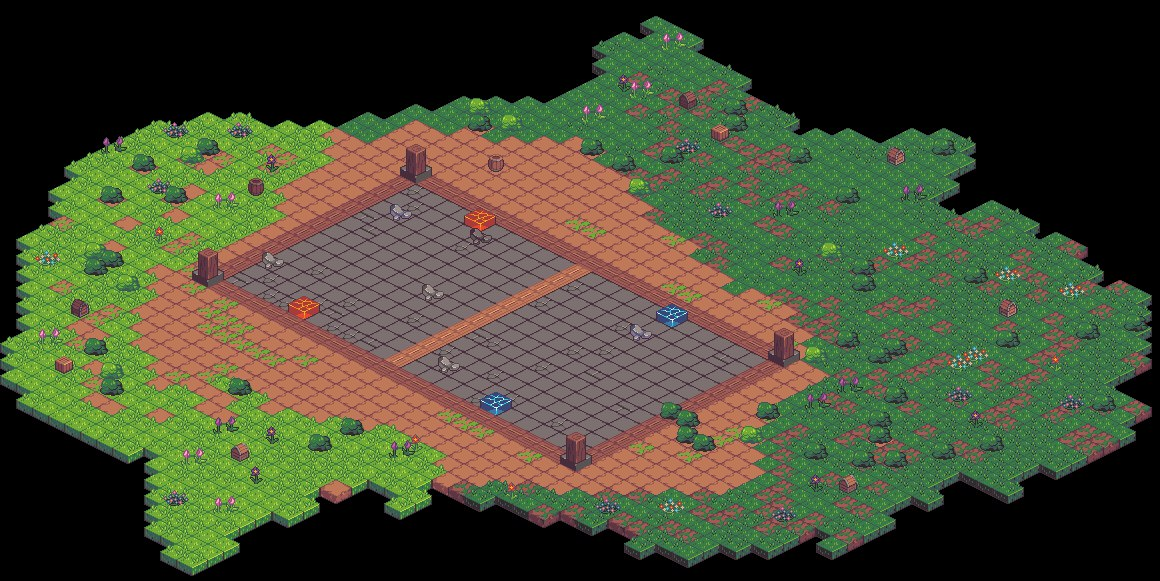
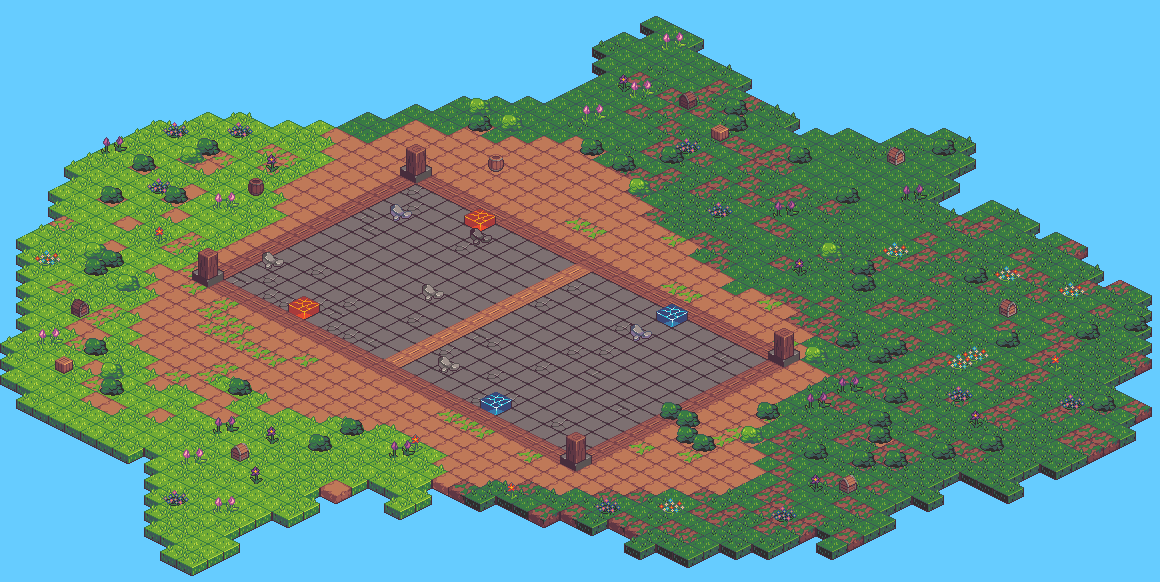
change background to skyblue, reimport map asset

diff --git a/game.js b/game.js
@@ -548,7 +548,7 @@ Game.render = function (tFrame) {
   );
   camera.begin();
 
-  Game.ctx.fillStyle = "rgb(27, 155, 152)";
+  Game.ctx.fillStyle = "rgb(102, 204, 255)";
   Game.ctx.fillRect(0, 0, 1500, 1500);
 
   // const room = Loader.getImage("floathouse")
